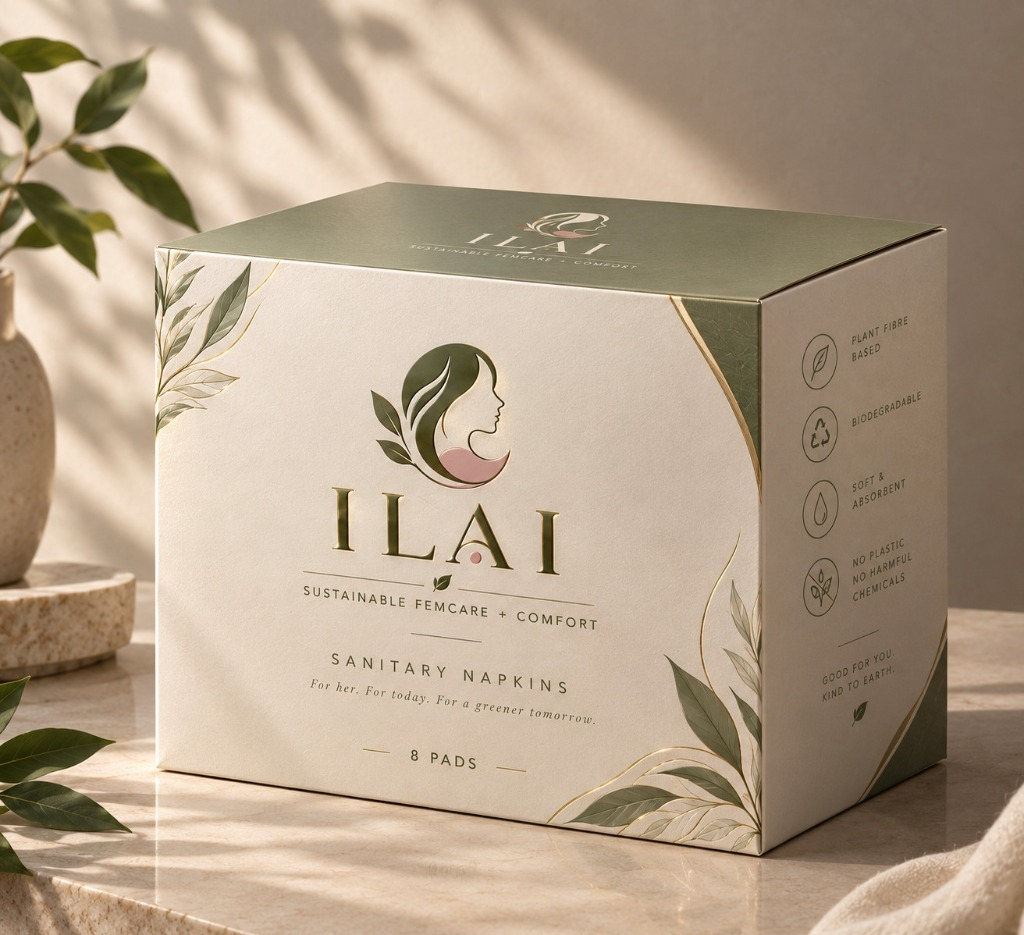
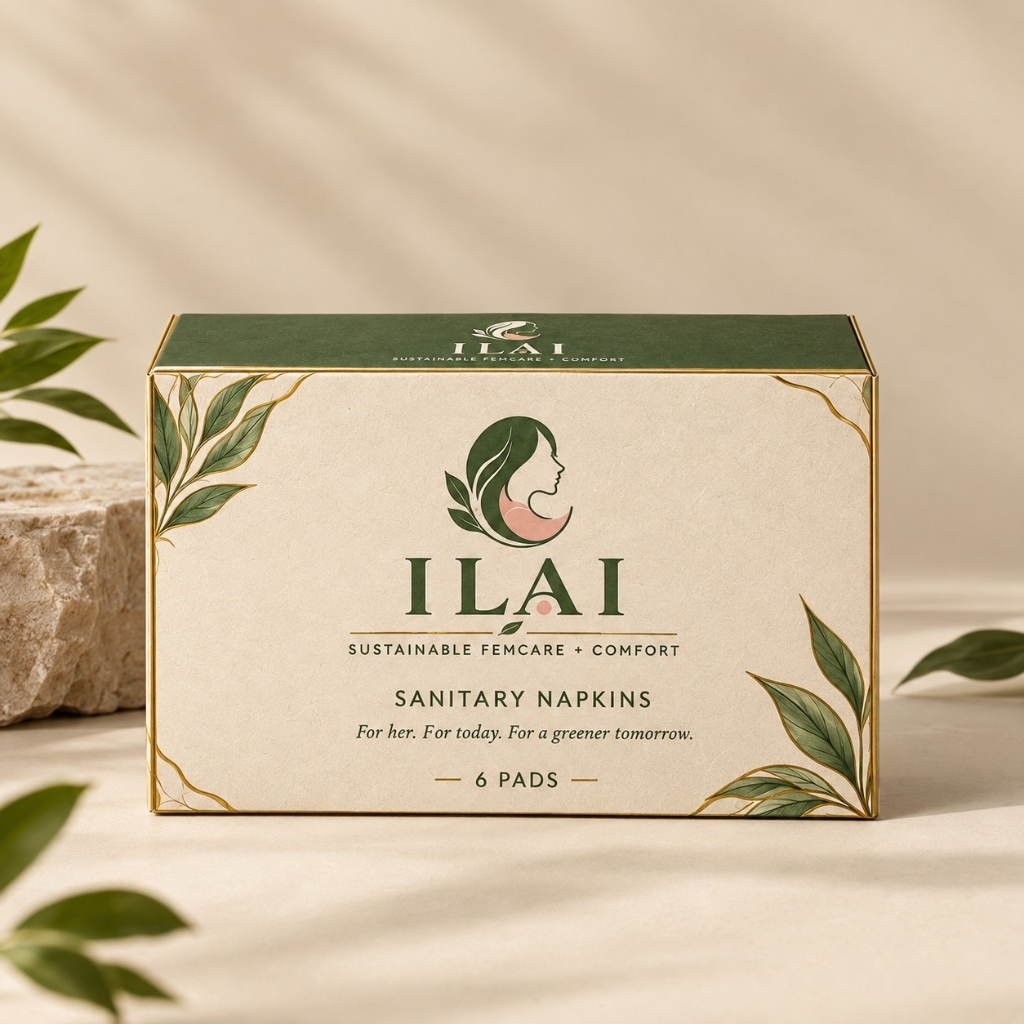
feat: integrate official product packaging and gallery images

diff --git a/src/app/order-confirmation/[id]/page.tsx b/src/app/order-confirmation/[id]/page.tsx
@@ -151,8 +151,11 @@ export default async function OrderConfirmationPage({
                 <div className="flex items-center gap-3">
                   <div className="w-12 h-12 rounded-lg overflow-hidden border border-[#E2DCCB] shrink-0 bg-white">
                     <img
-                      src="/images/ilai-pad-1.jpg"
+                      src="/images/ilai-box-front.jpg"
                       alt={item.product_name}
+                      onError={(e) => {
+                        (e.target as HTMLImageElement).src = "/images/product.jpg";
+                      }}
                       className="w-full h-full object-cover"
                     />
                   </div>

diff --git a/src/components/ui/product-image-placeholder.tsx b/src/components/ui/product-image-placeholder.tsx
@@ -15,8 +15,11 @@ export const ProductImagePlaceholder: React.FC<ProductImageProps> = ({
       className={`relative overflow-hidden rounded-2xl bg-white border border-slate-200/80 shadow-md group flex items-center justify-center ${className}`}
     >
       <img
-        src="/images/product.jpg"
+        src="/images/ilai-box-front.jpg"
         alt={alt}
+        onError={(e) => {
+          (e.target as HTMLImageElement).src = "/images/product.jpg";
+        }}
         className="w-full h-full object-cover rounded-2xl transition-transform duration-300 group-hover:scale-105"
       />
     </div>

diff --git a/src/config/content.ts b/src/config/content.ts
@@ -90,8 +90,10 @@ export const productContent = {
   description: `ILAI is a sustainable sanitary pad created to provide women in India with safe, comfortable, and affordable menstrual care. Made using banana fibre and water hyacinth based plant materials, ILAI offers gentle protection while reducing plastic waste in our environment.`,
   
   images: [
-    "/images/ilai-product-packaging.jpg",
-    "/images/ilai-pad-1.jpg",
+    "/images/ilai-box-front.jpg",
+    "/images/ilai-box-inside.jpg",
+    "/images/ilai-single-pad.png",
+    "/images/ilai-box-back.jpg",
   ],
 
   highlights: [

diff --git a/src/app/cart/page.tsx b/src/app/cart/page.tsx
@@ -119,7 +119,7 @@ export default function CartPage() {
               <div className="flex items-center gap-4 w-full sm:w-auto">
                 <div className="w-16 h-16 rounded-xl overflow-hidden border border-[#E2DCCB] shrink-0 bg-white shadow-sm">
                   <img
-                    src="/images/ilai-product-packaging.jpg"
+                    src="/images/ilai-box-front.jpg"
                     alt="ILAI Sanitary Pad Box"
                     onError={(e) => {
                       (e.target as HTMLImageElement).src = "/images/product.jpg";
